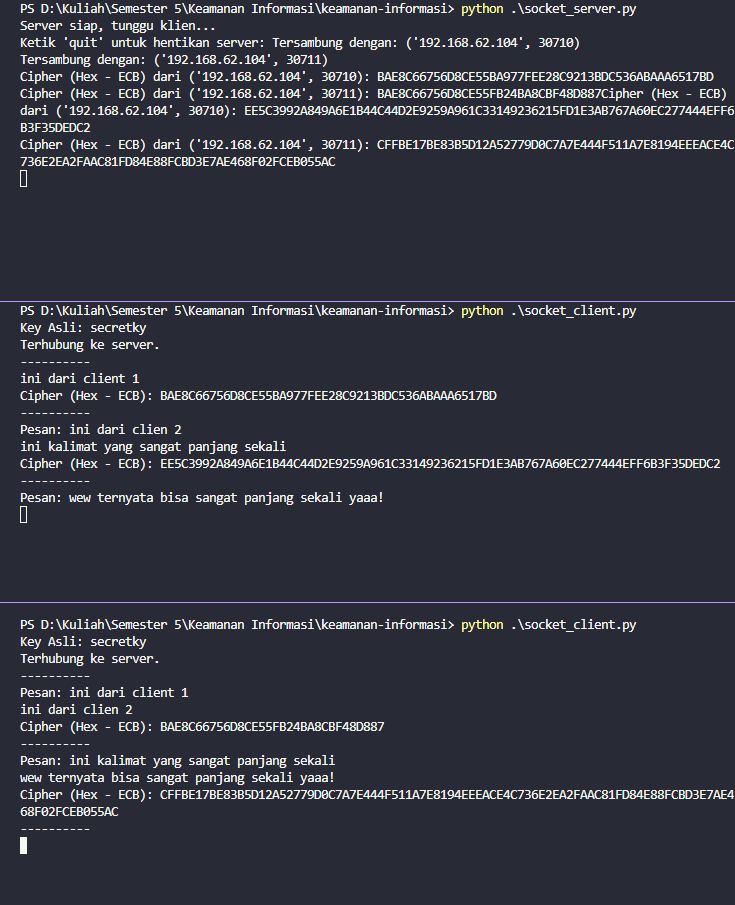
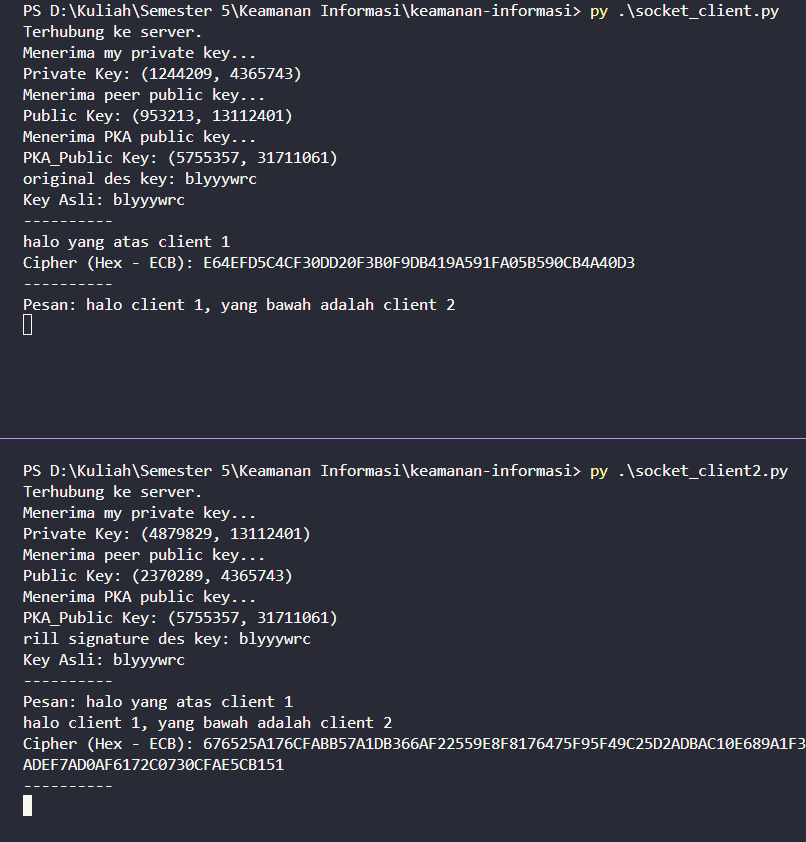
feat: Public-Key Cryptosystems

Changed region(s): [[0.0299, 0.2779, 1.0, 0.9881], [0.0299, 0.0, 1.0, 0.247], [0.7782, 0.5558, 0.9878, 0.5867]]

diff --git a/socket_client.py b/socket_client.py
@@ -4,10 +4,6 @@ from des import convert_key, buat_keys, str_to_bin, encrypt_ecb_mode, decrypt_ec
 from rsa import encrypt_rsa
 import random
 
-KEY = "secretky"  
-key_bin = convert_key(KEY)
-keys = buat_keys(key_bin)
-
 def client_program():
     host = socket.gethostname()
     port = 5000
@@ -33,14 +29,19 @@ def client_program():
 
     # initiate key exchange
     # random string with length of 7 characters
-    DES_key = ''.join(random.choice('abcdefghijklmnopqrstuvwxyz') for _ in range(7))
+    DES_key = ''.join(random.choice('abcdefghijklmnopqrstuvwxyz') for _ in range(8))
     print("original des key:", DES_key)
 
-    # enkrip des key menggunakan RSA public key
-    enkrip_DES_key = encrypt_rsa(peer_public_key, DES_key)
-    encoded_key = ','.join(map(str, enkrip_DES_key))  # Convert list to comma-separated string
-    s.send(encoded_key.encode())
-    print("Berhasil mengirim des key.")
+    # signature pakai private key
+    signature_des_key = encrypt_rsa(my_private_key, DES_key)
+    str_signature_des_key = ','.join(map(str, signature_des_key))  
+
+    enkrip_DES_key = encrypt_rsa(peer_public_key, str_signature_des_key)
+    enkrip_DES_key = ','.join(map(str, enkrip_DES_key))  
+    s.send(enkrip_DES_key.encode())
+
+    key_bin = convert_key(DES_key)
+    keys = buat_keys(key_bin)
 
     def terima():
         while True:
@@ -58,8 +59,6 @@ def client_program():
     while True:
         pesan = input("----------\n")
         if pesan == 'bye':
-            bin_pesan = str_to_bin(pesan)
-            # enkrip_pesan = encrypt_ecb_mode(bin_pesan, keys)
             s.send(pesan.encode())
             print("Keluar.")
             break

diff --git a/socket_client2.py b/socket_client2.py
@@ -3,10 +3,6 @@ import threading
 from des import convert_key, buat_keys, str_to_bin, encrypt_ecb_mode, decrypt_ecb_mode
 from rsa import decrypt_rsa
 
-KEY = "secretky"  
-key_bin = convert_key(KEY)
-keys = buat_keys(key_bin)
-
 def client_program():
     host = socket.gethostname()
     port = 5000
@@ -34,7 +30,12 @@ def client_program():
     DES_key = s.recv(1024).decode()
     DES_key = list(map(int, DES_key.split(',')))
     dekrip_DES_key = decrypt_rsa(my_private_key, DES_key)
-    print("Des key:", dekrip_DES_key)
+    dekrip_DES_key = list(map(int, dekrip_DES_key.split(',')))
+    rill_DES_key = decrypt_rsa(peer_public_key, dekrip_DES_key)
+    print("rill signature des key:", rill_DES_key)
+
+    key_bin = convert_key(rill_DES_key)
+    keys = buat_keys(key_bin)
 
     def terima():
         while True:

diff --git a/README.md b/README.md
@@ -7,7 +7,7 @@ Keamanan Informasi (B)
 
 
 ## Pembagian Kerja
-- Moch. Avin: algoritma DES dan implementasi socket server dan client.
+- Moch. Avin: Semuanya
 
 
 ## Hasil
